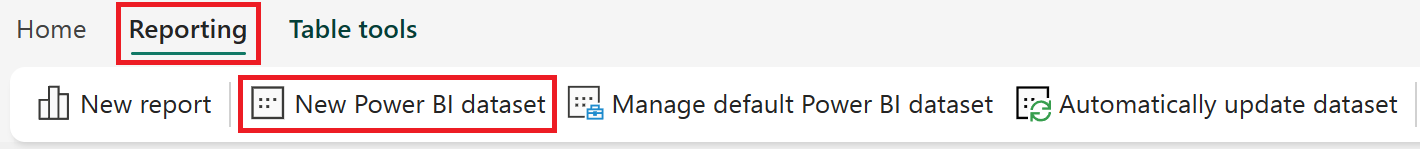
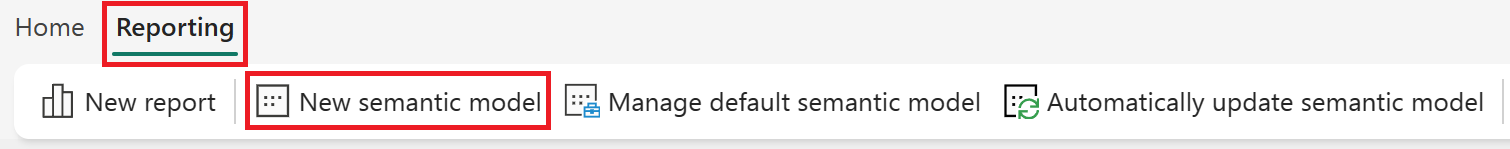
Updates to data modeling section

Changed region(s): [[0.0, 0.0, 1.0, 0.9664]]

diff --git a/Day After Dashboard in a Day/DataModeling.md b/Day After Dashboard in a Day/DataModeling.md
@@ -61,7 +61,7 @@ We'll begin by enabling the setting to allow for editing data models in the clou
 
 <font size="6">✅ Lab check</font>
 
-With the SQL endpoint we are able to run ad-hoc SQL queries atop of our tables and visualize our results all within a browser session. In the next section we want to focus on modeling our data and preparing it for analysis.
+With the SQL endpoint we are able to run ad-hoc SQL queries atop of our tables and visualize our results using DirectQuery mode all within a browser session. In the next section we want to focus on modeling our data and preparing it for analysis.
 
 ### Create relationships
 
@@ -73,9 +73,12 @@ It is also recommend to strive to deliver the **right number of tables** with th
 
 ---
 
-1. From the ribbon, select **Reporting** and then **New Power BI dataset**.
+1. From the ribbon, select **Reporting** and then **New semantic model**.
 
     ![New Power BI dataset](./Media/new-powerbi-dataset.png)
+
+    > [!NOTE]
+    > The **New semantic model** option is also visible from the Lakehouse explorer's **Home** tab.
 
 1. In the **New dataset** window, update the **Name** to **SalesDirectLakeModel**. Seelct the following objects listed below and then click **Confirm**:
 
@@ -109,7 +112,9 @@ It is also recommend to strive to deliver the **right number of tables** with th
     > The **Assume referential integrity** selection, enables running more efficient queries by using INNER JOIN statements rather than OUTER JOIN. This feature is only available when using Direct Lake and DirectQuery connectivity modes.
     > Learn more about [Referential integrity](https://docs.microsoft.com/power-bi/connect-data/desktop-assume-referential-integrity)
 
-1. Perform these same steps for each of the remaining tables and columns listed in the following table to create relationships.
+1. From the **Home** tab, select the **Manage relationships** option, and for each of the items listed below select **New relationship** and configure the relationships for each of the remaining tables and columns. Once complete select **Close**.
+
+    ![Manage relationships](./Media/manage-relationships.png)
 
     | Make this relationship active | From: Table 1 (column) | To: Table 2 (column) | Cardinality | Assume referential integrity | Cross filter direction |
     | :----- |:----- | :------ | :----- | :----- | :----- |

diff --git a/Day After Dashboard in a Day/DataPreparation.md b/Day After Dashboard in a Day/DataPreparation.md
@@ -3,7 +3,7 @@
 ✏ Lab scenario
 ---
 
-In this section of the lab, our objective is to gather and merge daily files from a cloud directory. As the number of files in this directory will grow over time, it is essential to develop a data preparation solution that can accommodate this expansion. To achieve this, we need to create a future-proofed data preparation solution that can handle this growth1.
+In this section of the lab, our objective is to gather and merge daily files from a cloud directory. As the number of files in this directory will grow over time, it is essential to develop a data preparation solution that can accommodate this expansion. To achieve this, we need to create a future-proofed data preparation solution that can handle this growth.
 
 Please note that the term *future-proofed* refers to a solution that is designed to remain effective and relevant as conditions change over time. For more information on future-proofing queries, you can refer to the [Power Query best practices](https://learn.microsoft.com/power-query/best-practices#future-proofing-queries) documentation.
 
@@ -30,7 +30,7 @@ We'll begin by navigating to a new, empty, or non-production workspace to check 
 
 ## Lakehouse storage
 
-To begin, we will create a **Lakehouse**, which is a data architecture platform that enables the storage, management, and analysis of structured and unstructured data. This flexible and scalable solution allows organizations to handle large volumes of data using a variety of tools and frameworks to process and analyze that data.
+We'll start by creating a **Lakehouse**, which is a data architecture platform that enables the storage, management, and analysis of structured and unstructured data. This flexible and scalable solution allows organizations to handle large volumes of data using a variety of tools and frameworks to process and analyze that data.
 
 Learn more about [lakehouses in Microsoft Fabric](https://learn.microsoft.com/fabric/data-engineering/lakehouse-overview)
 
